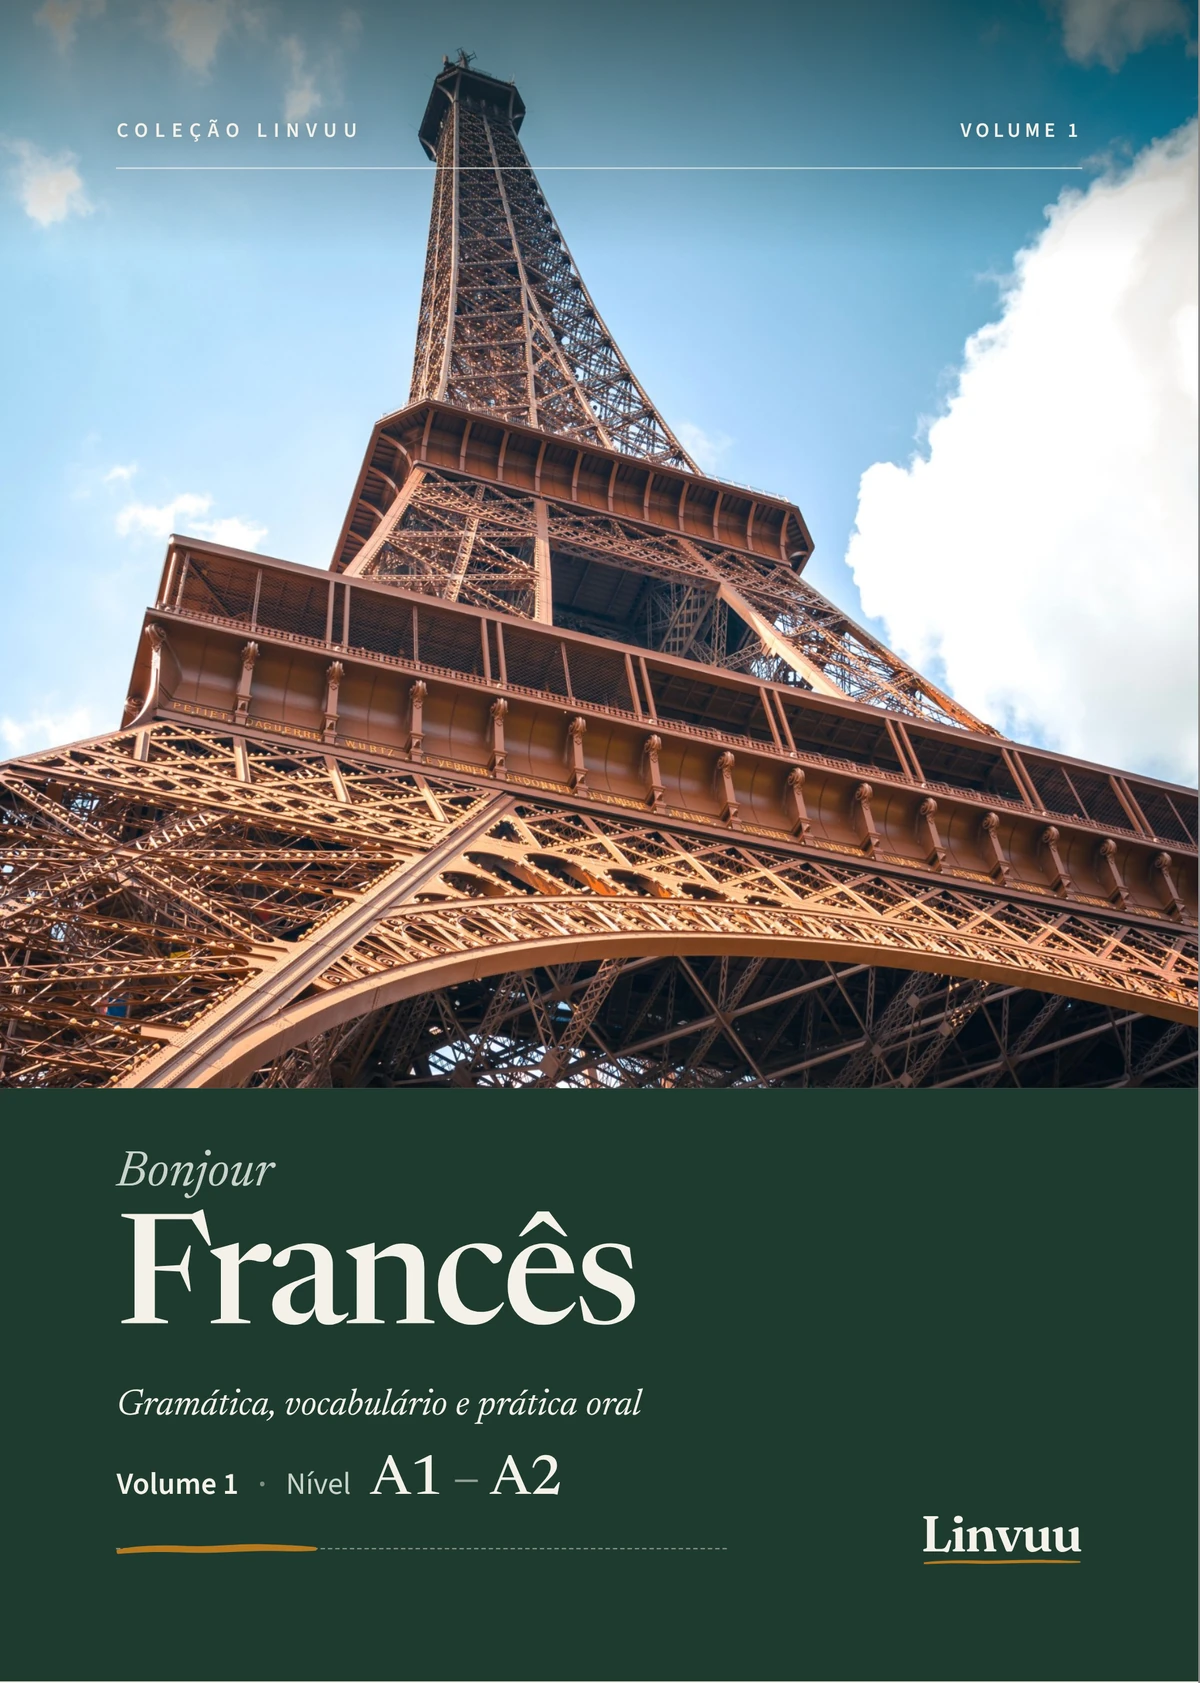
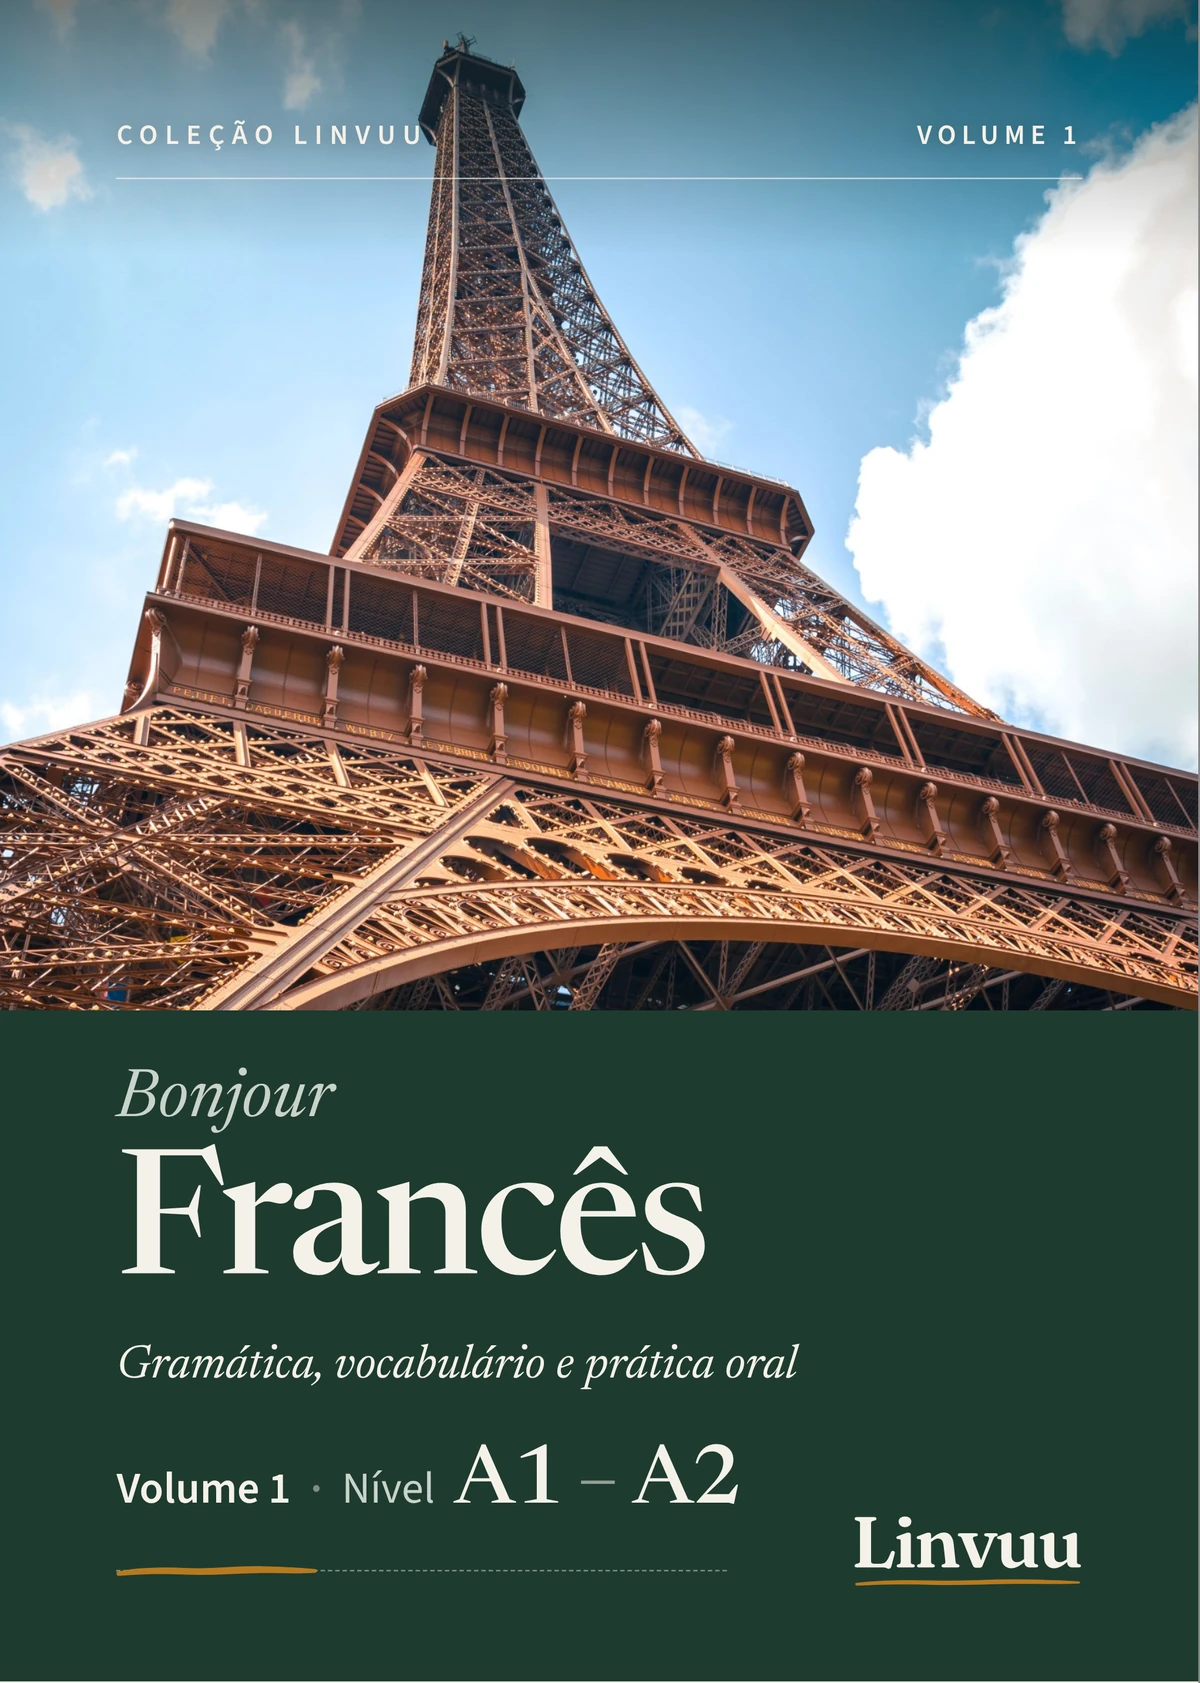
Fotos do Como funciona alinhadas ao container; capas dos livros com texto maior e sem legenda
Claude-Session: https://claude.ai/code/session_011keLgVwLSDZ8ngHoGxKHcz

diff --git a/design/capa/capa.html b/design/capa/capa.html
@@ -15,11 +15,11 @@ html,body{background:#888}
 /* 216 x 303 mm = A4 mais ou menos 3 mm de sangria em cada lado (210 x 297 final) */
 .p{position:relative;width:216mm;height:303mm;overflow:hidden;font-family:'Source Sans 3',sans-serif;page-break-after:always}
 .serif{font-family:'Newsreader','Literata',Georgia,serif;font-optical-sizing:auto}
-.sel{font-size:14px;font-weight:600;letter-spacing:.32em;text-transform:uppercase}
-.foto{position:absolute;left:0;top:0;width:100%;height:196mm;background:#C9D3C9 center/cover no-repeat}
+.sel{font-size:19px;font-weight:600;letter-spacing:.26em;text-transform:uppercase}
+.foto{position:absolute;left:0;top:0;width:100%;height:182mm;background:#C9D3C9 center/cover no-repeat}
 .foto::after{content:"";position:absolute;inset:0;background:linear-gradient(to bottom,rgba(20,28,24,.55) 0,rgba(20,28,24,.28) 22mm,rgba(20,28,24,0) 46mm)}
-.painel{position:absolute;left:0;right:0;top:196mm;bottom:0;background:#1E3B2F;color:#F5F1E8;padding:11mm 21mm 21mm;display:flex;flex-direction:column}
-.traco{position:relative;width:110mm;height:24px;margin-top:4mm}
+.painel{position:absolute;left:0;right:0;top:182mm;bottom:0;background:#1E3B2F;color:#F5F1E8;padding:10mm 21mm 17mm;display:flex;flex-direction:column}
+.traco{position:relative;width:110mm;height:24px;margin-top:5mm}
 .traco i{position:absolute;left:0;right:0;top:50%;border-top:1px dashed rgba(245,241,232,.45)}
 .traco b{position:absolute;left:0;top:0;bottom:0;overflow:hidden}
 .ocre{fill:#B7791F}
@@ -31,18 +31,18 @@ html,body{background:#888}
 <section class="p" id="capa">
   <div class="foto" id="foto"></div>
   <div style="position:absolute;left:21mm;right:21mm;top:21mm;display:flex;justify-content:space-between;align-items:baseline;padding-bottom:4mm;border-bottom:1px solid rgba(245,241,232,.7);color:#F5F1E8;text-shadow:0 0 14px rgba(0,0,0,.35)">
-    <span class="sel">Coleção Linvuu</span><span id="vol" style="font-size:14px;font-weight:600;letter-spacing:.2em;text-transform:uppercase"></span>
+    <span class="sel">Coleção Linvuu</span><span id="vol" style="font-size:19px;font-weight:600;letter-spacing:.2em;text-transform:uppercase"></span>
   </div>
   <div class="painel">
-    <p class="serif" id="saud" style="font-style:italic;font-weight:400;font-size:34px;line-height:1;color:#C9D3C9"></p>
-    <h1 class="serif" id="idioma" style="margin-top:3mm;font-weight:500;font-size:104px;letter-spacing:-0.025em;line-height:.95"></h1>
-    <p class="serif" style="margin-top:4mm;font-style:italic;font-weight:400;font-size:25px;line-height:1.25;color:#F5F1E8">Gramática, vocabulário e prática oral</p>
+    <p class="serif" id="saud" style="font-style:italic;font-weight:400;font-size:46px;line-height:1;color:#C9D3C9"></p>
+    <h1 class="serif" id="idioma" style="margin-top:3mm;font-weight:500;font-size:118px;letter-spacing:-0.025em;line-height:.95"></h1>
+    <p class="serif" style="margin-top:4mm;font-style:italic;font-weight:400;font-size:32px;line-height:1.25;color:#F5F1E8">Gramática, vocabulário e prática oral</p>
     <div style="margin-top:auto;display:flex;justify-content:space-between;align-items:flex-end;gap:10mm">
       <div>
-        <p id="nivel" style="display:flex;align-items:baseline;gap:3.5mm;font-size:21px;font-weight:600"></p>
+        <p id="nivel" style="display:flex;align-items:baseline;gap:3.5mm;font-size:30px;font-weight:600"></p>
         <div class="traco"><i></i><b id="barra"><svg viewBox="0 0 400 20" preserveAspectRatio="none" width="100%" height="100%" style="display:block"><path class="ocre" d="M2,11 C40,8.6 90,8.2 140,8.9 C190,9.6 240,7.6 290,7.9 C330,8.1 370,8.8 397,9.6 C399,10 399,11.4 396.5,11.6 C360,12.4 320,11.6 280,11.8 C230,12.1 180,13.4 130,12.6 C80,11.9 40,12.6 4,13.4 C1,13.5 0.5,11.3 2,11 Z"/></svg></b></div>
       </div>
-      <img src="linvuu-wordmark-papel.svg" alt="Linvuu" style="height:35px;width:auto">
+      <img src="linvuu-wordmark-papel.svg" alt="Linvuu" style="height:50px;width:auto">
     </div>
   </div>
 </section>
@@ -74,7 +74,7 @@ document.getElementById('idioma').textContent = idioma;
 document.getElementById('saud').textContent = g('saudacao', 'Bonjour');
 document.getElementById('saud').lang = g('lang', 'fr');
 document.getElementById('vol').textContent = `Volume ${vol}`;
-document.getElementById('nivel').innerHTML = `<span>Volume ${vol}</span><span style="opacity:.45">·</span><span style="font-weight:400;color:#C9D3C9">Nível</span><span class="serif" style="font-size:38px;font-weight:500;letter-spacing:-.01em;line-height:1">${nivel.split(/\s*[-–.\/]\s*/).join('<span style="font-weight:400;opacity:.55;padding:0 .18em">–</span>')}</span>`;
+document.getElementById('nivel').innerHTML = `<span>Volume ${vol}</span><span style="opacity:.45">·</span><span style="font-weight:400;color:#C9D3C9">Nível</span><span class="serif" style="font-size:56px;font-weight:500;letter-spacing:-.01em;line-height:1">${nivel.split(/\s*[-–.\/]\s*/).join('<span style="font-weight:400;opacity:.55;padding:0 .18em">–</span>')}</span>`;
 document.getElementById('barra').style.width = g('prog', '33') + '%';
 document.getElementById('titulo2').textContent = g('titulo2', 'Fale de verdade.');
 const f = document.getElementById('foto');

diff --git a/src/redesign.css b/src/redesign.css
@@ -161,7 +161,7 @@ h1,h2,h3{font-family:var(--font-display);font-variation-settings:var(--fraunces-
 .lv-exp-opc button.errado{border-color:var(--tijolo,#8C2F1E)}
 .lv-exp-msg{margin:16px 0 0;font-size:15px;color:var(--grafite-80);min-height:3em}
 .lv-ouvir{display:inline-flex;align-items:center;gap:10px;background:var(--verde-floresta);color:var(--papel);border:0;border-radius:2px;padding:10px 16px;font:inherit;font-weight:600;cursor:pointer}
-.lv-fotos{display:grid;grid-template-columns:repeat(3,1fr);gap:24px;margin:0 0 8px}
+.lv-fotos{display:grid;grid-template-columns:repeat(3,1fr);gap:24px;margin:0 auto 8px}
 .lv-fotos img{width:100%;height:auto;aspect-ratio:4/3;object-fit:cover;display:block;border-radius:0}
 .lv-carta{max-width:640px;margin:0 auto;font-size:19px;line-height:1.65}
 .lv-carta-ass{font-family:'Caveat',cursive;font-size:30px;color:var(--verde-floresta);margin:20px 0 0}
@@ -182,7 +182,7 @@ h1,h2,h3{font-family:var(--font-display);font-variation-settings:var(--fraunces-
 .lv-plano .btn{margin-top:auto}
 
 /* Vitrine da Coleção Linvuu */
-.livro{width:250px;padding:0;gap:4px;border:0;border-radius:0;background:transparent;color:inherit;text-decoration:none}
+.livro{width:300px;padding:0;gap:4px;border:0;border-radius:0;background:transparent;color:inherit;text-decoration:none}
 .livro-capa{aspect-ratio:216/303;border-radius:0;box-shadow:none;margin-bottom:10px;background:var(--papel-escuro)}
 .livro-capa img{display:block;transition:opacity .15s}
 .livro h3{font-family:'Newsreader Variable',serif;font-weight:500;font-size:22px;line-height:1.2}
@@ -190,4 +190,6 @@ h1,h2,h3{font-family:var(--font-display);font-variation-settings:var(--fraunces-
 a.livro:hover,a.livro:focus-visible{transform:none;box-shadow:none;border-color:transparent}
 a.livro:hover .livro-capa img,a.livro:focus-visible .livro-capa img{opacity:.88}
 a.livro:focus-visible{outline:2px solid var(--verde,#1E3B2F);outline-offset:4px}
-@media(max-width:700px){.livro{width:200px}}
+@media(max-width:700px){.livro{width:240px}}
+.livro h3,.livro p{position:absolute;width:1px;height:1px;margin:-1px;padding:0;overflow:hidden;clip:rect(0 0 0 0);white-space:nowrap}
+.livro-capa{margin-bottom:0}
